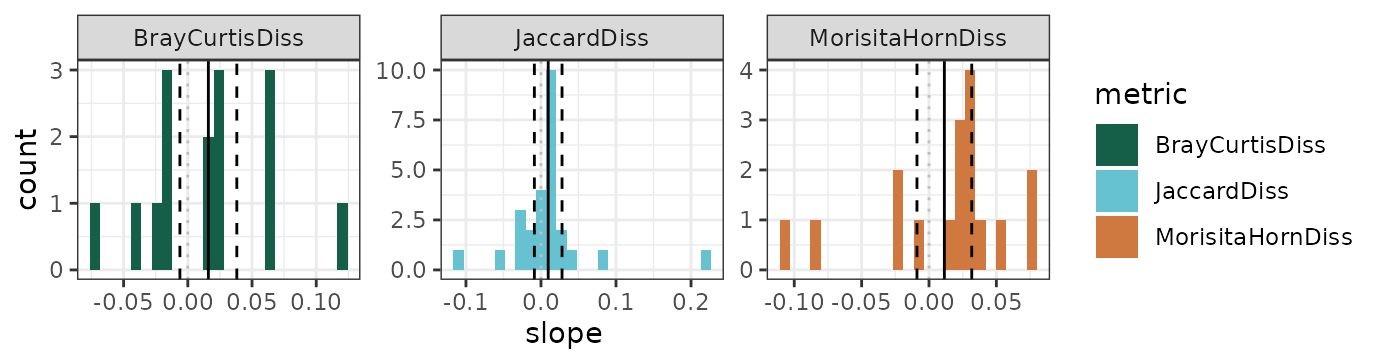
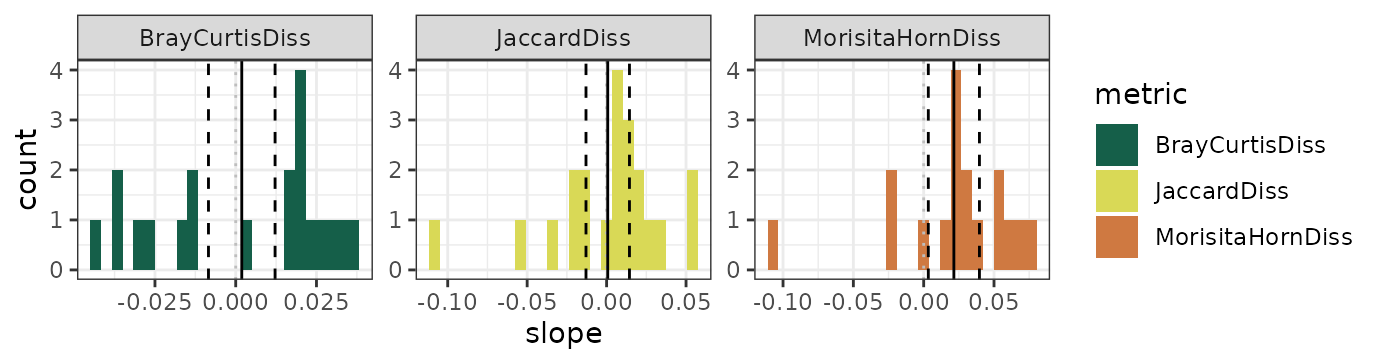
Deploying to gh-pages from @ bioTIMEHub/BioTIMEr@5edaaef25f633f5936eb9625d2a15b0511782910 🚀

diff --git a/articles/vignette1.html b/articles/vignette1.html
@@ -586,7 +586,7 @@ subsequent sensitivity analysis:</p>
 <td align="right">10</td>
 <td align="left">10_359170</td>
 <td align="right">1</td>
-<td align="right">56</td>
+<td align="right">55</td>
 <td align="right">23</td>
 <td align="right">3</td>
 </tr>
@@ -595,7 +595,7 @@ subsequent sensitivity analysis:</p>
 <td align="left">10_359170</td>
 <td align="right">2</td>
 <td align="right">56</td>
-<td align="right">24</td>
+<td align="right">22</td>
 <td align="right">3</td>
 </tr>
 <tr class="odd">
@@ -603,31 +603,31 @@ subsequent sensitivity analysis:</p>
 <td align="left">10_359170</td>
 <td align="right">3</td>
 <td align="right">58</td>
-<td align="right">23</td>
+<td align="right">24</td>
 <td align="right">3</td>
 </tr>
 <tr class="even">
 <td align="right">18</td>
 <td align="left">18_335699</td>
 <td align="right">1</td>
-<td align="right">662</td>
-<td align="right">69</td>
+<td align="right">694</td>
+<td align="right">74</td>
 <td align="right">29</td>
 </tr>
 <tr class="odd">
 <td align="right">18</td>
 <td align="left">18_335699</td>
 <td align="right">2</td>
-<td align="right">695</td>
-<td align="right">73</td>
+<td align="right">700</td>
+<td align="right">74</td>
 <td align="right">29</td>
 </tr>
 <tr class="even">
 <td align="right">18</td>
 <td align="left">18_335699</td>
 <td align="right">3</td>
-<td align="right">717</td>
-<td align="right">74</td>
+<td align="right">693</td>
+<td align="right">69</td>
 <td align="right">29</td>
 </tr>
 <tr class="odd">
@@ -726,80 +726,80 @@ Lets apply it to our now processed BioTIME example dataset:</p>
 <tr class="odd">
 <td align="left">10_359170</td>
 <td align="right">1984</td>
-<td align="right">20</td>
-<td align="right">3092</td>
-<td align="right">1803</td>
-<td align="right">1.467048</td>
-<td align="right">0.6222179</td>
-<td align="right">2.647029</td>
-<td align="right">0.6224192</td>
-<td align="right">0.7176585</td>
-<td align="right">4.336416</td>
+<td align="right">19</td>
+<td align="right">3123</td>
+<td align="right">1957</td>
+<td align="right">1.397349</td>
+<td align="right">0.5791776</td>
+<td align="right">2.376299</td>
+<td align="right">0.5793631</td>
+<td align="right">0.7358309</td>
+<td align="right">4.044466</td>
 </tr>
 <tr class="even">
 <td align="left">10_359170</td>
 <td align="right">1992</td>
-<td align="right">20</td>
-<td align="right">1525</td>
-<td align="right">587</td>
-<td align="right">1.798964</td>
-<td align="right">0.7615407</td>
-<td align="right">4.193587</td>
-<td align="right">0.7620404</td>
-<td align="right">0.6216393</td>
-<td align="right">6.043385</td>
+<td align="right">18</td>
+<td align="right">1586</td>
+<td align="right">703</td>
+<td align="right">1.745906</td>
+<td align="right">0.7371150</td>
+<td align="right">3.803944</td>
+<td align="right">0.7375800</td>
+<td align="right">0.6317781</td>
+<td align="right">5.731091</td>
 </tr>
 <tr class="odd">
 <td align="left">10_359170</td>
 <td align="right">1996</td>
-<td align="right">18</td>
-<td align="right">1557</td>
-<td align="right">841</td>
-<td align="right">1.606444</td>
-<td align="right">0.6701836</td>
-<td align="right">3.031990</td>
-<td align="right">0.6706143</td>
-<td align="right">0.6628131</td>
-<td align="right">4.985053</td>
+<td align="right">19</td>
+<td align="right">1285</td>
+<td align="right">583</td>
+<td align="right">1.822981</td>
+<td align="right">0.7401160</td>
+<td align="right">3.847870</td>
+<td align="right">0.7406924</td>
+<td align="right">0.6334630</td>
+<td align="right">6.190282</td>
 </tr>
 <tr class="even">
 <td align="left">18_335699</td>
-<td align="right">1932</td>
-<td align="right">24</td>
-<td align="right">489</td>
-<td align="right">110</td>
-<td align="right">2.455362</td>
-<td align="right">0.8818632</td>
-<td align="right">8.464760</td>
-<td align="right">0.8836703</td>
-<td align="right">0.3926380</td>
-<td align="right">11.650652</td>
+<td align="right">1933</td>
+<td align="right">32</td>
+<td align="right">748</td>
+<td align="right">317</td>
+<td align="right">2.049737</td>
+<td align="right">0.7651134</td>
+<td align="right">4.257373</td>
+<td align="right">0.7661376</td>
+<td align="right">0.6229947</td>
+<td align="right">7.765858</td>
 </tr>
 <tr class="odd">
 <td align="left">18_335699</td>
-<td align="right">1933</td>
-<td align="right">19</td>
-<td align="right">271</td>
-<td align="right">104</td>
-<td align="right">1.746735</td>
-<td align="right">0.7201699</td>
-<td align="right">3.573597</td>
-<td align="right">0.7228372</td>
-<td align="right">0.7380074</td>
-<td align="right">5.735846</td>
+<td align="right">1934</td>
+<td align="right">21</td>
+<td align="right">363</td>
+<td align="right">91</td>
+<td align="right">2.157879</td>
+<td align="right">0.8380272</td>
+<td align="right">6.173874</td>
+<td align="right">0.8403421</td>
+<td align="right">0.4986226</td>
+<td align="right">8.652764</td>
 </tr>
 <tr class="even">
 <td align="left">18_335699</td>
-<td align="right">1937</td>
-<td align="right">28</td>
-<td align="right">666</td>
-<td align="right">141</td>
-<td align="right">2.459054</td>
-<td align="right">0.8834510</td>
-<td align="right">8.580084</td>
-<td align="right">0.8847795</td>
-<td align="right">0.3738739</td>
-<td align="right">11.693739</td>
+<td align="right">1935</td>
+<td align="right">25</td>
+<td align="right">297</td>
+<td align="right">61</td>
+<td align="right">2.712919</td>
+<td align="right">0.9070956</td>
+<td align="right">10.763758</td>
+<td align="right">0.9101602</td>
+<td align="right">0.3333333</td>
+<td align="right">15.073208</td>
 </tr>
 </tbody>
 </table>
@@ -822,44 +822,44 @@ Lets apply it to our now processed BioTIME example dataset:</p>
 <tr class="odd">
 <td align="right">1984</td>
 <td align="left">10_359170</td>
-<td align="right">0.1818182</td>
-<td align="right">0.0915172</td>
-<td align="right">0.3571583</td>
+<td align="right">0.1500000</td>
+<td align="right">0.0643523</td>
+<td align="right">0.3446592</td>
 </tr>
 <tr class="even">
 <td align="right">1992</td>
 <td align="left">10_359170</td>
-<td align="right">0.4166667</td>
-<td align="right">0.0093877</td>
-<td align="right">0.3830931</td>
+<td align="right">0.3478261</td>
+<td align="right">0.0606082</td>
+<td align="right">0.4641561</td>
 </tr>
 <tr class="odd">
 <td align="right">1996</td>
 <td align="left">10_359170</td>
-<td align="right">0.3478261</td>
-<td align="right">0.0881165</td>
-<td align="right">0.2602206</td>
+<td align="right">0.3913043</td>
+<td align="right">0.0162253</td>
+<td align="right">0.1988854</td>
 </tr>
 <tr class="even">
-<td align="right">1932</td>
-<td align="left">18_335699</td>
-<td align="right">0.5666667</td>
-<td align="right">0.5328621</td>
-<td align="right">0.6210526</td>
-</tr>
-<tr class="odd">
 <td align="right">1933</td>
 <td align="left">18_335699</td>
-<td align="right">0.5555556</td>
-<td align="right">0.1198606</td>
-<td align="right">0.3506494</td>
+<td align="right">0.4411765</td>
+<td align="right">0.6629078</td>
+<td align="right">0.6111611</td>
+</tr>
+<tr class="odd">
+<td align="right">1934</td>
+<td align="left">18_335699</td>
+<td align="right">0.4594595</td>
+<td align="right">0.6167575</td>
+<td align="right">0.6842105</td>
 </tr>
 <tr class="even">
-<td align="right">1937</td>
+<td align="right">1935</td>
 <td align="left">18_335699</td>
-<td align="right">0.3225806</td>
-<td align="right">0.4604323</td>
-<td align="right">0.5462185</td>
+<td align="right">0.4358974</td>
+<td align="right">0.6583153</td>
+<td align="right">0.7009346</td>
 </tr>
 </tbody>
 </table>
@@ -943,48 +943,48 @@ use depends on your research question.</p>
 <tbody>
 <tr class="odd">
 <td align="left">DomMc</td>
-<td align="right">27</td>
-<td align="right">-0.0036474</td>
+<td align="right">22</td>
+<td align="right">-0.0024750</td>
 </tr>
 <tr class="even">
 <td align="left">N</td>
-<td align="right">27</td>
-<td align="right">-134.8767289</td>
+<td align="right">30</td>
+<td align="right">-170.4733975</td>
 </tr>
 <tr class="odd">
 <td align="left">PIE</td>
-<td align="right">34</td>
-<td align="right">0.0099568</td>
+<td align="right">32</td>
+<td align="right">0.0104098</td>
 </tr>
 <tr class="even">
 <td align="left">S</td>
-<td align="right">23</td>
-<td align="right">-0.2091922</td>
+<td align="right">22</td>
+<td align="right">-0.0168906</td>
 </tr>
 <tr class="odd">
 <td align="left">Shannon</td>
-<td align="right">39</td>
-<td align="right">0.0122976</td>
+<td align="right">35</td>
+<td align="right">0.0233736</td>
 </tr>
 <tr class="even">
 <td align="left">Simpson</td>
-<td align="right">34</td>
-<td align="right">0.0094288</td>
+<td align="right">32</td>
+<td align="right">0.0108235</td>
 </tr>
 <tr class="odd">
 <td align="left">expShannon</td>
-<td align="right">40</td>
-<td align="right">0.0250011</td>
+<td align="right">37</td>
+<td align="right">0.0679278</td>
 </tr>
 <tr class="even">
 <td align="left">invSimpson</td>
-<td align="right">28</td>
-<td align="right">0.0152532</td>
+<td align="right">32</td>
+<td align="right">0.0114718</td>
 </tr>
 <tr class="odd">
 <td align="left">maxN</td>
-<td align="right">27</td>
-<td align="right">-88.9267100</td>
+<td align="right">29</td>
+<td align="right">-107.9044511</td>
 </tr>
 </tbody>
 </table>

diff --git a/reference/resampling.html b/reference/resampling.html
@@ -1,5 +1,5 @@
 <!DOCTYPE html>
-<!-- Generated by pkgdown: do not edit by hand --><html lang="en"><head><meta http-equiv="Content-Type" content="text/html; charset=UTF-8"><meta charset="utf-8"><meta http-equiv="X-UA-Compatible" content="IE=edge"><meta name="viewport" content="width=device-width, initial-scale=1.0"><title>Rarefy BioTIME datato an equal number of samples per year — resampling • BioTIMEr</title><!-- jquery --><script src="https://cdnjs.cloudflare.com/ajax/libs/jquery/3.4.1/jquery.min.js" integrity="sha256-CSXorXvZcTkaix6Yvo6HppcZGetbYMGWSFlBw8HfCJo=" crossorigin="anonymous"></script><!-- Bootstrap --><link rel="stylesheet" href="https://cdnjs.cloudflare.com/ajax/libs/twitter-bootstrap/3.4.1/css/bootstrap.min.css" integrity="sha256-bZLfwXAP04zRMK2BjiO8iu9pf4FbLqX6zitd+tIvLhE=" crossorigin="anonymous"><script src="https://cdnjs.cloudflare.com/ajax/libs/twitter-bootstrap/3.4.1/js/bootstrap.min.js" integrity="sha256-nuL8/2cJ5NDSSwnKD8VqreErSWHtnEP9E7AySL+1ev4=" crossorigin="anonymous"></script><!-- bootstrap-toc --><link rel="stylesheet" href="../bootstrap-toc.css"><script src="../bootstrap-toc.js"></script><!-- Font Awesome icons --><link rel="stylesheet" href="https://cdnjs.cloudflare.com/ajax/libs/font-awesome/5.12.1/css/all.min.css" integrity="sha256-mmgLkCYLUQbXn0B1SRqzHar6dCnv9oZFPEC1g1cwlkk=" crossorigin="anonymous"><link rel="stylesheet" href="https://cdnjs.cloudflare.com/ajax/libs/font-awesome/5.12.1/css/v4-shims.min.css" integrity="sha256-wZjR52fzng1pJHwx4aV2AO3yyTOXrcDW7jBpJtTwVxw=" crossorigin="anonymous"><!-- clipboard.js --><script src="https://cdnjs.cloudflare.com/ajax/libs/clipboard.js/2.0.6/clipboard.min.js" integrity="sha256-inc5kl9MA1hkeYUt+EC3BhlIgyp/2jDIyBLS6k3UxPI=" crossorigin="anonymous"></script><!-- headroom.js --><script src="https://cdnjs.cloudflare.com/ajax/libs/headroom/0.11.0/headroom.min.js" integrity="sha256-AsUX4SJE1+yuDu5+mAVzJbuYNPHj/WroHuZ8Ir/CkE0=" crossorigin="anonymous"></script><script src="https://cdnjs.cloudflare.com/ajax/libs/headroom/0.11.0/jQuery.headroom.min.js" integrity="sha256-ZX/yNShbjqsohH1k95liqY9Gd8uOiE1S4vZc+9KQ1K4=" crossorigin="anonymous"></script><!-- pkgdown --><link href="../pkgdown.css" rel="stylesheet"><script src="../pkgdown.js"></script><meta property="og:title" content="Rarefy BioTIME datato an equal number of samples per year — resampling"><meta property="og:description" content="Takes the output of gridding and applies sample-based rarefaction to
+<!-- Generated by pkgdown: do not edit by hand --><html lang="en"><head><meta http-equiv="Content-Type" content="text/html; charset=UTF-8"><meta charset="utf-8"><meta http-equiv="X-UA-Compatible" content="IE=edge"><meta name="viewport" content="width=device-width, initial-scale=1.0"><title>Rarefy BioTIME data to an equal number of samples per year — resampling • BioTIMEr</title><!-- jquery --><script src="https://cdnjs.cloudflare.com/ajax/libs/jquery/3.4.1/jquery.min.js" integrity="sha256-CSXorXvZcTkaix6Yvo6HppcZGetbYMGWSFlBw8HfCJo=" crossorigin="anonymous"></script><!-- Bootstrap --><link rel="stylesheet" href="https://cdnjs.cloudflare.com/ajax/libs/twitter-bootstrap/3.4.1/css/bootstrap.min.css" integrity="sha256-bZLfwXAP04zRMK2BjiO8iu9pf4FbLqX6zitd+tIvLhE=" crossorigin="anonymous"><script src="https://cdnjs.cloudflare.com/ajax/libs/twitter-bootstrap/3.4.1/js/bootstrap.min.js" integrity="sha256-nuL8/2cJ5NDSSwnKD8VqreErSWHtnEP9E7AySL+1ev4=" crossorigin="anonymous"></script><!-- bootstrap-toc --><link rel="stylesheet" href="../bootstrap-toc.css"><script src="../bootstrap-toc.js"></script><!-- Font Awesome icons --><link rel="stylesheet" href="https://cdnjs.cloudflare.com/ajax/libs/font-awesome/5.12.1/css/all.min.css" integrity="sha256-mmgLkCYLUQbXn0B1SRqzHar6dCnv9oZFPEC1g1cwlkk=" crossorigin="anonymous"><link rel="stylesheet" href="https://cdnjs.cloudflare.com/ajax/libs/font-awesome/5.12.1/css/v4-shims.min.css" integrity="sha256-wZjR52fzng1pJHwx4aV2AO3yyTOXrcDW7jBpJtTwVxw=" crossorigin="anonymous"><!-- clipboard.js --><script src="https://cdnjs.cloudflare.com/ajax/libs/clipboard.js/2.0.6/clipboard.min.js" integrity="sha256-inc5kl9MA1hkeYUt+EC3BhlIgyp/2jDIyBLS6k3UxPI=" crossorigin="anonymous"></script><!-- headroom.js --><script src="https://cdnjs.cloudflare.com/ajax/libs/headroom/0.11.0/headroom.min.js" integrity="sha256-AsUX4SJE1+yuDu5+mAVzJbuYNPHj/WroHuZ8Ir/CkE0=" crossorigin="anonymous"></script><script src="https://cdnjs.cloudflare.com/ajax/libs/headroom/0.11.0/jQuery.headroom.min.js" integrity="sha256-ZX/yNShbjqsohH1k95liqY9Gd8uOiE1S4vZc+9KQ1K4=" crossorigin="anonymous"></script><!-- pkgdown --><link href="../pkgdown.css" rel="stylesheet"><script src="../pkgdown.js"></script><meta property="og:title" content="Rarefy BioTIME data to an equal number of samples per year — resampling"><meta property="og:description" content="Takes the output of gridding and applies sample-based rarefaction to
 standardise the number of samples per year within each cell-level time series
 (i.e. assemblageID)."><!-- mathjax --><script src="https://cdnjs.cloudflare.com/ajax/libs/mathjax/2.7.5/MathJax.js" integrity="sha256-nvJJv9wWKEm88qvoQl9ekL2J+k/RWIsaSScxxlsrv8k=" crossorigin="anonymous"></script><script src="https://cdnjs.cloudflare.com/ajax/libs/mathjax/2.7.5/config/TeX-AMS-MML_HTMLorMML.js" integrity="sha256-84DKXVJXs0/F8OTMzX4UR909+jtl4G7SPypPavF+GfA=" crossorigin="anonymous"></script><!--[if lt IE 9]>
 <script src="https://oss.maxcdn.com/html5shiv/3.7.3/html5shiv.min.js"></script>
@@ -55,7 +55,7 @@ standardise the number of samples per year within each cell-level time series
       </header><div class="row">
   <div class="col-md-9 contents">
     <div class="page-header">
-    <h1>Rarefy BioTIME datato an equal number of samples per year</h1>
+    <h1>Rarefy BioTIME data to an equal number of samples per year</h1>
     <small class="dont-index">Source: <a href="https://github.com/bioTIMEHub/BioTIMEr/blob/HEAD/R/rarefyBioTIME.R" class="external-link"><code>R/rarefyBioTIME.R</code></a></small>
     <div class="hidden name"><code>resampling.Rd</code></div>
     </div>

diff --git a/reference/index.html b/reference/index.html
@@ -83,7 +83,7 @@
       </tr><tr><td>
           <p><code><a href="resampling.html">resampling()</a></code> </p>
         </td>
-        <td><p>Rarefy BioTIME datato an equal number of samples per year</p></td>
+        <td><p>Rarefy BioTIME data to an equal number of samples per year</p></td>
       </tr><tr><td>
           <p><code><a href="subBTmeta.html">subBTmeta</a></code> </p>
         </td>
